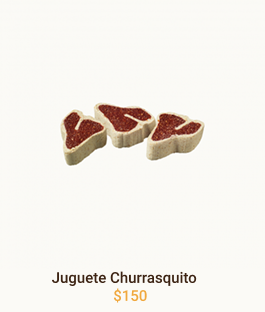
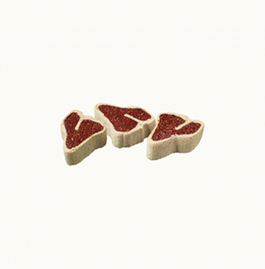
[Feat] Actualizacion de imagenes y  correcciones en html y css

Changed region(s): [[0.2113, 0.3271, 0.7849, 0.6245], [0.1811, 0.8625, 0.7547, 0.9814]]

diff --git a/index.html b/index.html
@@ -19,30 +19,34 @@
           <li class="sin-viñeta"><a href="#"><img src="img/pawprint 2.png" alt="Icono huella"> Nosotros</a></li>
           <li class="sin-viñeta"><a href="#"><img src="img/pawprint 2.png" alt="Icono huella"> Contactanos</a></li>
         </ul>
-</nav>
+      </nav>
     </header>
     <!-- imagen principal-->
-    <img src="img/Slide.png" alt="Slide principal" />
-    <!-- Separador -->
+    <img class="imagen-completa" src="img/bowl-and-pet-daities-on-green-background 1.png" alt="Slide principal" />
+    <!-- Separador icono huella -->
     <div class="icono-destacado">
       <img src="img/pawprint 1.png" alt="Huella"/>
     </div>
     <h1>Productos Destacados</h1>
-    </p>
     <p class="etiquetas">Comederos <span class="separador">-</span> Accesorios <span class="separador">-</span> Comida</p>
+    <!-- Productos -->
     <article class="productos">
-      <span><img src="img/Churrasquito.png" alt="Juguete Churrasquito"/></span>
+      <span>
+        <img src="img/Churrasquito.png" alt="Juguete Churrasquito"/>
+        <p>Juguete Churrasquito</p>
+        <p>$150</p>
+      </span>
       <span><img src="img/Comedero.png" alt="Comedero para perro"/></span>
-      <span><img src="img/Huesito juguete.png" alt="Juguete Huesito"/></span>
+      <span><img src="img/Huesito.png" alt="Juguete Huesito"/></span>
     </article>
-
+    <!-- Contactanos -->
     <section class="seccion-contacto">
   <h2>Contáctanos</h2>
   <form class="formulario">
     <input type="text" placeholder="Nombre y Apellido" required>
     <input type="email" placeholder="Ingresá tu correo electrónico" required>
     <input type="tel" placeholder="Teléfono" required>
-    
+    <!-- Botones Contacto -->
     <div class="contenedor-botones">
       <button type="reset" class="btn-reset">Resetear</button>
       <button type="submit" class="btn-enviar">Enviar</button>

diff --git a/css/estilo.css b/css/estilo.css
@@ -9,12 +9,23 @@ a {
   text-decoration: none;
   color: white;
 }
+nav ul, ul {
+  margin-bottom: 0;
+  padding-bottom: 0;
+}
 
 body{
   font-family: Arial, Helvetica, sans-serif;
+  margin: 0;
+}
+.imagen-completa {
+  width: 100vw;
+  height: auto;
+  display: block;
 }
 .icono-destacado {
   text-align: center;
+  margin-top: 20px;
 }
 h1 {
   text-align: center;
@@ -31,6 +42,7 @@ p.etiquetas {
     justify-content: center;  
     gap: 40px;
     margin-bottom: 80px;
+    margin-top: 40px;
 }
 
 .seccion-contacto {
@@ -64,7 +76,7 @@ p.etiquetas {
 .contenedor-botones button {
   border: none;
   padding: 10px 25px;
-  border-radius: 20px; /* Bordes muy redondeados (tipo píldora) */
+  border-radius: 20px;
   color: white;
   font-size: 14px;
   cursor: pointer;
